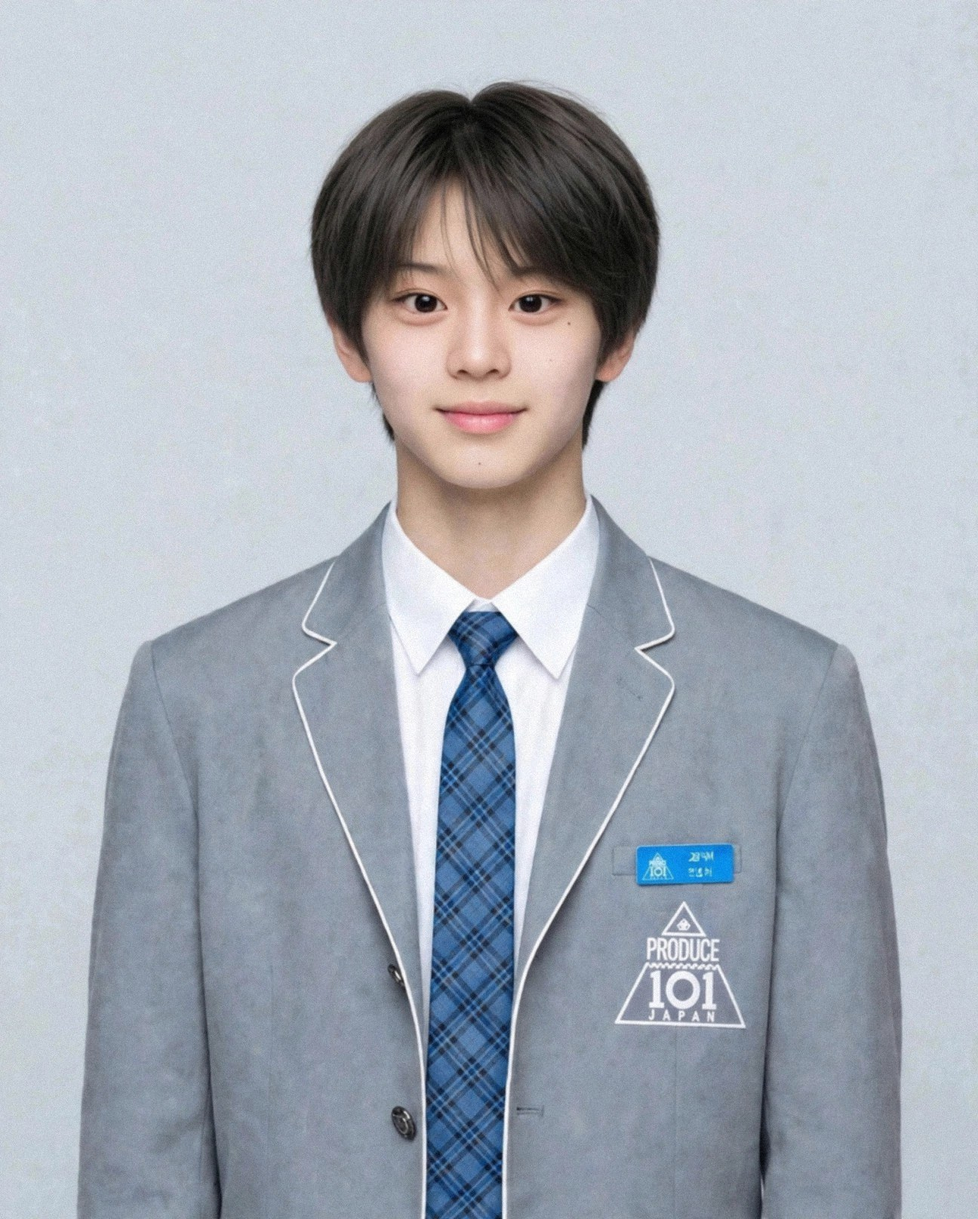
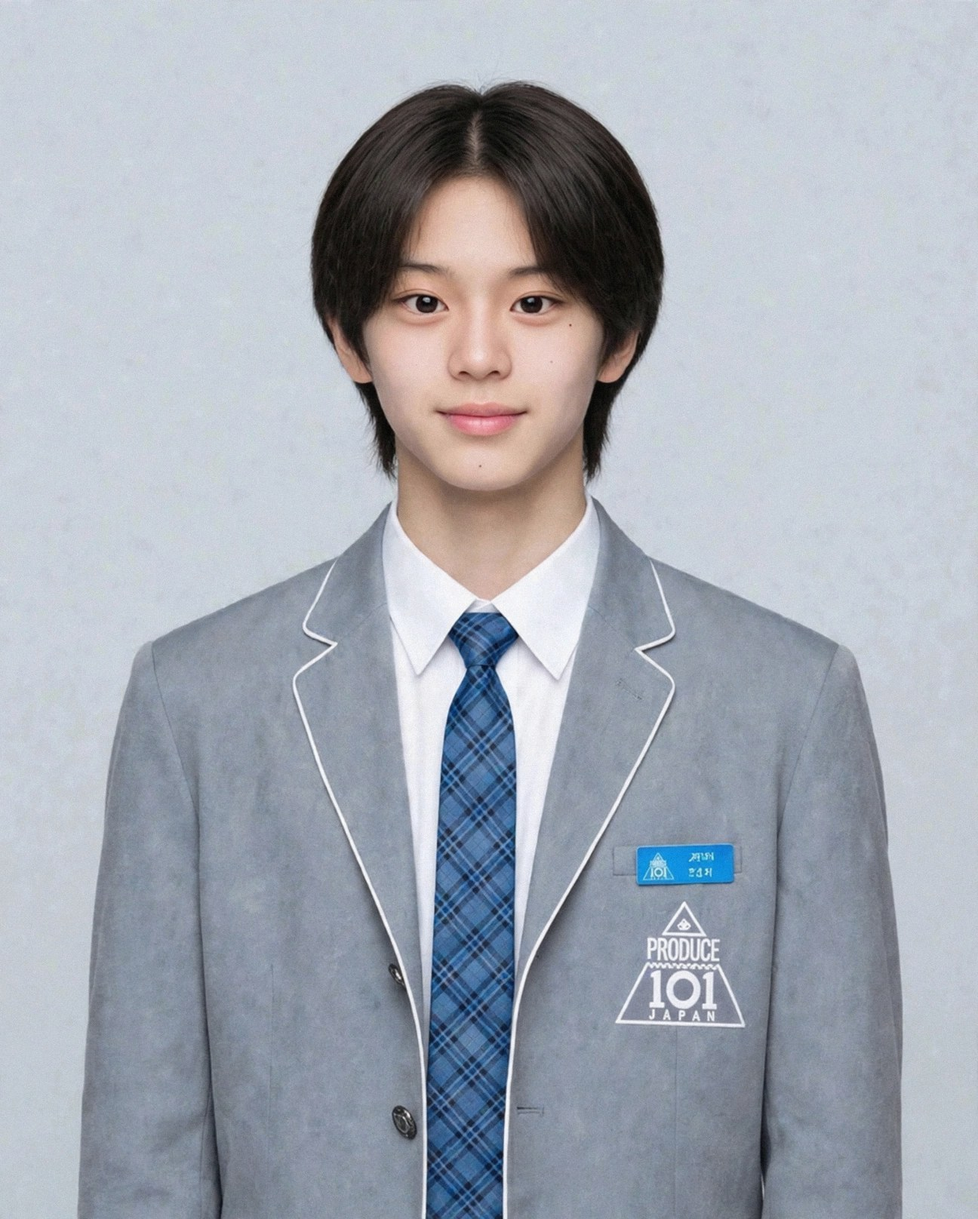
v180: 2019の顔の年齢感を17歳に調整（プロフィール／寄り／自撮り／やんちゃの4点を作り直し）

diff --git a/index.html b/index.html
@@ -835,7 +835,7 @@ body{font-family:-apple-system,"Hiragino Kaku Gothic ProN","Noto Sans JP",sans-s
 <script>
 "use strict";
 const $=s=>document.querySelector(s);
-const VER="v179";
+const VER="v180";
 /* ============ state ============ */
 const DEF={idx:0,started:false,consented:false,soundOn:true,
  g:{iwakan:0,bare:0,todoita:0,uta:8,dance:4,ishi:50},
@@ -2646,7 +2646,7 @@ function renderSettings(tab){setTab=tab;document.querySelectorAll("#set-tabs but
  <div class="srow"><span>到達した結末</span><span class="sv">${S.trueEnd?"TRUE END ― 現在":S.normalEnd?"END ― 通常現在":S.loopBad?"BAD END ― ループ継続":S.bareEnd?"END ― 秘密バレIF":S.ridatsuEnd?"END ― 離脱した現在":"（まだ到達していません）"}</span></div>
  <div class="srow"><span>サウンド</span><span class="sv"><button id="snd-btn" style="background:${S.soundOn!==false?"#17172a":"#c6c6d4"};color:#fff;border:none;border-radius:999px;padding:6px 18px;font-size:12.5px;font-weight:700;cursor:pointer">${S.soundOn!==false?"ON":"OFF"}</button></span></div>
  <div class="srow"><span>フィクション</span><span class="sv">実在の記録をもとにした創作です</span></div>
- <div class="srow"><span>アップデート</span><span class="sv">v16 サウンドと画面遷移／v17 差分再演REPLAYとDiff時代別表示／v18 現在の小さな変化／v19 トークのスレッドとフリーチャット／v20・v23・v32 場面カットの追加／v21 日常回（食堂の夜・売店の夜）／v22 番組アプリの情報デザイン／v24 ホーム背景の時代連動と進行％／v25 タイトルのスライドショー／v26 彼の画面のカウンタ／v27 ロック画面の通知スタック／v28 写真の全画面ビューア／v30 章ごとの記録カード／v31 フィナーレ直前の彼の視点／v33 フリーチャットの時代別応答／v34 投票レシート／v35 ミッション進捗バー／v36 ゲージの危険域表示／v37 選んだ記録の判別表示／v38 台帳の時代別表示／v39 Keepsakeの時代バッジ／v41 章名つきロック画面／v42 トークの新着バッジ／v43 名簿の詳細パネル／v44 写真のスワイプ送り／v45 BGMの時代連動／v46 順位・差分の専用SE／v47 長押し早送り／v48 章セレクト／v50 REPLAY再演の追加／v52 日常回（コンビニの夜）／v53 タイトル通知のセーブ連動／v54 アプリアイコンのバッジ／v55 主人公の正式名「三浦渚央」と2019プロフィールの新フェイス差し替え／v56〜v59 プロフィール・場面カットの新フェイス再生成／v60 カード画角の統一（頭部55〜60%）と三浦渚央の順位表示／v61 名簿メモへの順位追記と凡例／v62 周B順位発表の彼の視点／v63 ストーリーバナーのサムネ時代連動／v64 タイトルに正式名／v65 ロック画面に順位通知／v66 情報タブに順位の記録／v67 順位行の文字色修正／v68 現在の小さな変化（順位の残響）／v69 写真メモに順位結果／v70 節目 ― 全アプリ走査／v71 フリーチャットの話題追加／v72 トークのチップ追加／v73・v74 順位タブの空状態整理／v75 順位変動のDiff記録／v76 節目 ― 全アプリ走査／v77 2021周A・初回ステージ後に彼の画面を追加／v78 2023周A・ファンカム章に彼の視点（インライン）を追加／v79 2019周A・順位発表式に彼の視点（インライン）を追加／v80 2023周A・VERY NICE本番前に彼の視点（インライン）を追加／v81 2023周A・寮の夜に彼の視点（インライン）を追加／v82 2019周A・届くはずのなかった手紙に彼の視点（インライン）を追加／v83 フリーチャットの話題拡充（2019専用プール＋新キーワード6種＋チップ追加）／v84 周Aの彼の記憶の線引きで全監査（2021・2023到着場面と彼の画面3件を連続した同僚の前提に書き換え）／v85 2019周A・練習室の夜に彼の視点（インライン）を追加／v86 2021周A・寮の一夜に彼の視点（インライン）を追加／v87 2023周A・コンビニの夜に彼の視点（インライン）を追加／v88 台帳・Keepsake・Diffの時代分類を修正（NXD期グループ新設、誤分類6件を是正）／v89 場面カット追加（2023順位発表の夜・face2基準で新規生成）／v90 場面カット追加（2021ファイナルの夜・face2基準で新規生成）／v91 節目 ― 全アプリ走査／v92 日常回「自販機の夜」（2023・周B）を追加／v93 2019周A・レベル分け評価に彼の視点（インライン）を追加／v94 写真アプリに時代別グルーピング（見出し＋枚数）を追加／v95 場面カット追加（NXD期・夜の練習室、face2基準で新規生成）／v96 フリーチャットの時代別プールを拡充（各時代＋2件）／v97 2019周B・発覚に彼の視点（インライン）を追加／v98 2021周B・再会に彼の視点（インライン）を追加／v99 2023周B・発覚に彼の視点（インライン）を追加／v100 節目 ― 全編通しプレイ検証／v101 効果音の配線追加（台帳・Keepsake・彼の視点）／v102 トークに彼のメッセージを3件追加／v103 タイトルのスライドショー拡充（8枚）とホーム背景のNXD期差し替え／v104 2023周B・再会に彼の視点（インライン）を追加／v105 2021周B・売店の夜に彼の視点（インライン）を追加／v106 NXD期・周B「移籍の決断」に彼の視点（インライン）を追加／v107 2023周B・共同作戦に彼の視点（インライン）を追加／v108 2019周B・共同作戦（ツカメ対策）に彼の視点（インライン）を追加／v109 2021周B・共同作戦に彼の視点（インライン）を追加／v110 NXD期・周B「延期の季節 ― 二度目」に彼の視点（インライン）を追加／v111 フリーチャット拡充（キーワード応答3種・チップ2件・現在編プール拡充）／v112 節目 ― 全アプリ走査／v113 2023周B・自販機の夜に彼の視点（インライン）を追加／v114 2019周A・食堂の夜に彼の視点（インライン）を追加／v115 2021周B・順位発表の締めに彼の視点（インライン）を追加／v116 設計ドキュメントの実装状況を更新／v117 場面カット追加（2019食堂の夜・face2基準で新規生成）／v118 場面カット追加（2021売店の夜・face2基準で新規生成）／v119 場面カット追加（2023コンビニの夜・face2基準で新規生成）／v120 背景の差し替え（現在編の冒頭とソロデビューの場面）／v121 節目 ― 全編通しプレイ検証（v101〜v120の追加後）／v122 画像出典メモ（IMAGE_SOURCES.md）に新規カット6点とface2基準を追記／v123 READMEの状態表記を現行（本編完結・公開中）に更新／v124 視覚QAで発見した順位タブの防御的修正（順位値の欠損時に最低ラインへフォールバック）／v125 節目 ― 全画面の視覚QA（撮影確認）／v126 節目 ― 別エンディング到達検証（秘密バレIF・離脱した現在）／v127 節目 ― 全5エンディング到達検証の完了（通常現在・ループ継続BADを追加確認）／v128 設計ドキュメントの実装状況に最終検証結果を追記／v129 READMEの現行版表記を更新／v130 生成メタファイルを .gitignore に追加して作業ツリーを整理／v131 「届くはずのなかった手紙」に背景を設定（食堂カットの引き継ぎを解消）／v132 フリーチャットの応答拡充（キーワード応答8種・時代別プール各+2件・チップ2件を追加）／v133 仕上げのUI調整（ホームのアプリアイコンのラベルの可読性を向上、ストーリー画面のゲージチップを均等な3+3配置に整形）／v134 フリーチャットに語学の話題を追加（中国語・韓国語・英語へのキーワード応答）／v135 節目 ― 朝まで改修の最終版（全アプリ走査・ドキュメント同期）／v136 トークを実物化（1相手=1スレッドに集約・未読バッジ・プレビュー・実物時刻・日付チップ・自分の送信への既読表示。仕組みは『現役アイドル、Tinderやってた件』のLINEと『キープ管理中！』の未読管理から移植）／v137 2021・2023の渚央プロフィールを制服版に統一（創造営の紺制服／ボイプラの淡グレー制服。名簿・順位・パネル・背景・写真の参照を全て profile-uniform 系へ）／v138 ロック画面とホームの実物化（主通知の送信者を実アプリ名にし未読トークがあれば最新メッセージを表示、日付を月日＋曜日の実物形式に、ホームと写真の操作説明文を撤去）／v139 トークをTinder版（v462）LINEと実測比較して一致（バブルの角・色・文字サイズ、入力欄、送信ボタン、日付チップ、一覧の行構成と検索ボックス、スレッドヘッダーのアバター）／v140 トークにLINEアプリのシェルを移植（下部タブバー＋タブ画面を新設。タブの数・並び・切替挙動はTinder版LINEと同一で、ホームタブは三浦渚央のプロフィール＋届いた応援カード＋友だちリストのパネル、ニュースは番組アプリ、その他は設定・記録へ接続）／v141 ロック画面の進化（時計を88px・太字に、通知カードをblur20px＋saturateの実物仕様にして幅を統一、スタック通知のアイコンをアプリ別SVGに分けて出現をスタッガード化。ステータスバーと電池％を追加し、壁紙を時代連動＋緩やかなズームに。下部のライトは白フラッシュが光る実働ボタンに、カメラは写真アプリへ直行。通知はタップで該当アプリ・記録へ遷移）／v142 ホーム画面の進化（Tinder版ホームのページ構成を移植：飾りだったドットを実働の2ページ化にし、横スワイプとドットタップで切替。2ページ目に物語暦のカレンダーウィジェットと時代のカットが切り替わる写真ウィジェットを新設し、記録サマリと次のミッションを移設。ドットの横に検索ピルを追加し、アプリ・記録を検索して直接開けるシートを実装。下部にガラスのドック（トーク／写真／番組アプリ／設定・記録、バッジ連動）を追加。ステータスバーに電池％、壁紙に緩やかなズーム）／v143 ロック画面の通知スタックの隙間を修正（ベースCSSの上マージン34pxがスタック内の通知にも効いて間隔が42pxに広がっていたのを、実物どおり8pxに統一。あわせて通知領域を時計の下〜下部ボタンの上のスクロール領域にして、通知が多くてもライト／カメラのボタンやヒント文字に重ならないようにした）／v144 写真アプリの進化（『現役アイドル、Tinderやってた件』の写真アプリから移植：2列カード型だったグリッドを3列・隙間2px・正方形の実物仕様にし、時代見出し＋枚数のヘッダーと上部のピル型タブ（すべて／時代別で絞り込み）を新設。ビューアはお気に入り（セーブに保持、グリッドにもハート表示）とスライドショーを追加し、送りを循環式から端で止まるクランプ式に変更、キャプション＋差分メモ＋時代＋通し番号のメタ表示とキー操作に対応。複数選択モード（最大4枚）からコラージュを作成でき、ロック画面の壁紙にも設定できる（時代連動に戻す導線つき）。中身の時代別カットと枚数は従来どおり）／v145 アプリアイコンをTinder版の様式に統一（アイコンを全面SVG化し、背景レイヤーまで1枚に収める方式へ。トーク＝LINE・写真・設定・記録はTinder版と同型のアイコンに、番組アプリは金の縦グラデーション＋王冠のグリフで同水準に。アイコンの角丸と影もTinder版の実測値に一致。あわせてラベル用ピルのCSSがドックのアイコンにも漏れて円形になっていた不具合を修正し、ドックでもグリッドと同じ角丸アイコンが並ぶようにした）／v147 渚央の顔を最終基準（本人の写真由来の顔＋クールな髪型）へ差し替え開始。2023編のプロフィール（基準画像そのものへ差し替え、カード用クロップも新基準で作成）と場面カット全8点を基準顔で再生成／v148 2021編を新基準へ差し替え（プロフィールは19歳相当＋創造営制服＋屋外背景で新規生成、カード用クロップも作成。場面カット5点＝daily／practice／ranking-close／study／shop-nightを19歳相当の基準顔で再生成。stageは次版で差し替え予定）／v149 2019編を新基準へ全面差し替え（プロフィールは17歳相当で再生成し直し、カード用クロップも新規作成。場面カット7点＝stage／stage2／dorm／practice／ranking-close／selfie／cafeteriaを17歳相当の基準顔で再生成）。リンクプレビュー用のog:image（新stageから作成）も新設／v150 旧素材（候補ファイル群・旧プロフィール）を保管庫へ退避し、顔素材を新基準のラインに統一（表示内容の変更なし）／v151 2021のステージカットを新顔基準（19歳版）で差し替え、顔の全面差し替えが完了／v153 2021プロフィールに創造営の学員証を追加（メンバーが付けている装着物に合わせた。2019は名札が既存仕様どおり、2023は装着物なしが実物どおり）。<br>v152 全時代のプロフィールをポーズ付きに作り直し（2019＝ガッツポーズの全身ショット、2021＝頬ハートの膝上ショット、2023＝腕組みのウエスト上ショット。顔は新基準のラインを維持し、寄りクロップも新しい全身から作り直し）<br>v154 全身カットの脚の比率を修正（2019・2021の練習室カットを脚長・細身のモデル体型プロポーションで再生成。構図・ポーズ・顔は維持）<br>v155 鼻の大きさを基準顔に修正（2019ステージカットと順位発表カットの鼻を、基準の小さく細い鼻筋＋小さく上向きの鼻先に寄せて再生成。構図・衣装・表情は維持）<br>v156 「彼の画面」を現代のモバイルADV風に作り替え（時代の場面カットをぼかしたシネマティック背景＋暗グラデーション、大翔のアバター＋名前チップのヘッダー、進行は紫ピルをやめてグラデーションのプログレスバー＋控えめな件数表示に。心の声は字幕風の中央テキスト＋ヘアライン区切り、セリフはガラス質の吹き出しカードにし、金枠と紫イタリックを廃止。終わりは白ピルの「戻る」ボタン。本文・分岐・ゲージの仕様は不変。物語内の彼の視点カードも同じ質感に統一）<br>v157 番組アプリのリアル化（お知らせタブを新設し、時代と進行に連動する事務局・投票・コンテンツ通知を掲載。結果のお知らせからは順位タブへ遷移。名簿の詳細をプロフィールページ化：ヒーロー写真＋名前オーバーレイ＋区分・番組の情報行＋順位の記録テーブル（彼の初回12位など史実と周ごとの結果を、発表済みの分だけ表示）＋渚央のスキルバー。順位タブの大翔・渚央の周B行に前回比の変動チップ▲を追加）<br>v158 設定・記録のリアル化（情報タブをiOS設定風に：作品情報／いまの記録／サウンド／履歴のグループカード化、サウンドはピルボタンからiOSトグルスイッチに、長いアップデート履歴は開閉式に収納。表示テキストは全て従来どおり。ゲージ・台帳・Keepsake・Diff・章の各タブはカード型の行＋チップ見出しで履歴・メモ系UIの質感に統一。ゲージ説明や順位計算などの仕様・文言は不変）<br>v162 周Bの記憶ルールを新仕様に統一（彼の記憶は周B開始時＝2019年の再会で大周回Aの全部が一度に戻る。旧仕様「時代ごとに、その時代ぶんが順に戻る」は廃止。2019編の発覚を全部戻った前提の大きな一場面に書き直し、2021・2023編の再会は「その時代の記憶が戻る・既視感から確信」ではなく確認と共同作戦の続きに書き換え。彼の視点・幕間・ロック画面の通知文も同じ前提に統一。ゲージ・分岐・順位計算などの数値仕様は不変）<br>v163 2019の2点（ステージ／順位発表の寄り）の鼻を再修正（v155で小さく寄りすぎていたものを、基準顔の比率どおりの自然な大きさに戻して再生成。顔・構図・衣装は維持。og画像も新しいステージカットから作り直し）<br>v164 2019のプロフィールを実物どおりの素立ちバストショットに戻した（PRODUCE 101 JAPANの公式プロフィールはポーズなしの素立ちが実物のため、v152のガッツポーズ全身は2019に限って撤回。グレーブレザー＋青チェックタイ＋名札は維持し、寄りクロップも新しいバストショットから作り直し。他時代のプロフィールは各時代の公式写真に合わせる原則どおり据え置き）<br>v165 周Bの順位に下限（フロア）を保証（大翔の周B順位は、プレイ内容によらず必ず周Aより上になるよう最低上昇幅を保証：2019は35位以下にならない／2021は14位以下にならない／2023は20位以下にならない。デビュー圏外の上限＝従来どおり。渚央の周B順位36／16／19位が周A 38／18／22位より上であることも全時代で再確認。計算式そのものと、届いた数の扱いなどの仕様文言は不変）<br>v166 楽曲が分かる場面カットの衣装を当時の実物に合わせて作り直し（2021ステージ＝創造営2021・初評級ステージの曲目 MAMAMOO『HIP -Japanese ver.-』でRBWチームが着た赤のスパンコール・オーバーサイズトップス＋黒カーゴに変更。従来の龍刺繍ジャケットは当時の衣装ではないため差し替え。2023ファンカム2点目（エンディング妖精）と新規ステージカット＝BOYS PLANET『VERY NICE』Gグループの実物衣装（白ベレー帽＋オレンジ×白の太ボーダーのラガーシャツ）に変更し、新規カットは周A・周B両方のVERY NICE本番場面の背景に配線。根拠は本人の公式直カムサムネイル等の実物資料）／v167 周Bは二人ともファイナルまで残る仕様に変更（本人の決定）：大翔の周B順位帯をファイナリスト範囲へ（2019：12〜20位／2023：実効14〜18位。2021は従来の計算で12〜14位＝範囲内のため据え置き）、渚央の周B順位を2019：17位・2023：14位に変更（2021：16位は据え置き）。順位行・名簿メモ・彼の視点・現在インタールードのテロップ・2019／2023編Bの順位発表の文章をファイナル到達で整合。デビューできない結末（Canon Lock 第1層）は不変／v168 周B 2019編にコンセプト評価『やんちゃBOYやんちゃGIRL』の場面を追加（本人の確定指定）：史実でも大翔はマッチング投票で同曲のセンター・サブボーカルに選ばれていたが第2回発表36位で脱落し立てなかったため、周Bでは二人とも同じチームで実際に立つ形にした（周Aの渚央は第2回発表で脱落するため登場しない）。衣装は実物（紺の学ラン風ブレザー＋白パイピング＋黄ストライプシャツ＋手紙の小道具）に合わせた新規カットを追加／v169 衣装ルールを訂正（本人の指示）：大翔とまったく同じ衣装はNGで、系統（色味・素材感・コンセプト）だけ合わせて別デザインにする。創造営の赤スパンコールは系統（赤）を保ちつつギラギラを抑えた洗練デザイン（マットな深紅のシャツジャケット＋黒ワイドパンツ）に作り直し。VERY NICEの3点（ファンカム／ステージ／寄り）も大翔と同一だった白ベレー＋太ボーダーラガーをやめ、オレンジ×白の系統を保った別デザイン（細ボーダーのニットポロ＋白ワイドパンツ）に統一して作り直し。2原則は docs/ASSETS_NAO.md の衣装ルールに記録／v170 プロフィール画像の質感を各時代の公式写真に合わせた（本人の指摘「画質がクリアすぎる」）：プロフィール系8点（2019フル／寄り、2021制服／寄り／寄り（人気表示用）、2023制服／寄り／寄り（人気表示用））に、軽い縮小→拡大によるシャープさ低減＋微粒子グレイン＋コントラスト抑制の後処理を時代別に適用。2019を最強に処理。顔そのもの（基準顔・比率）は不変。生成基準マスターの standard-final は対象外／v171 番組アプリの表示修正（タブの折り返しを解消、名簿カードのメタ文の折り返しと高さを統一、名簿詳細を背面が漏れないプロフィールページ表示に変更）／v172 女の子らしさの監査と修正（本人の指摘）：表示中の渚央カット全点を「男性練習生として読めるか」で監査し、逸脱した4点（2023 VERY NICEの個人ファンカム／ステージ／寄り、2019 やんちゃBOYやんちゃGIRL）を作り直した。基準顔は維持し、髪を短めですっきりした男性ヘアに、表情と雰囲気を少年の爽やかさ側に寄せた。衣装の系統と構図は維持／v173 プロフィールの正面化（本人の指摘）：名簿・プロフィール用途の渚央を、他メンバーと同じほぼ正面・顔まっすぐの公式プロフィール画角に統一。2023は基準のstandard-final（正面）に戻して寄り2種も作り直し、2021は斜め向き＋頬ハートポーズをやめて正面の公式プロフィールに再生成（創造営の制服・屋外背景・学員証は維持）。2019は正面で問題なし／v174 ストーリー画面の表示修正（画像のない場面で真っ黒だったステージ領域に、星屑と星マークの意匠背景を持たせた。「▼」のテキスト記号をやめ、進むヒントと順位の変動チップ▲をSVGに統一）／v175 順位タブの空状態を専用デザインに（トロフィーのアイコン＋見出しで、発表前の状態が伝わる形に。文言は従来どおり）。章リストは時代チップを独立した行にして、章タイトルがチップの横で折り返さないレイアウトに／v176 写真ビューアの前後矢印を濃いガラス＋SVGシェブロンにして明るい写真の上でも見えるように。タイトル画面のスクリム（背景写真への暗幕）を中段から強め、ロゴとリード文の可読性を上げた／v177 v175で順位タブの空状態の差し替えが一部入っていなかった不具合を修正（専用デザインが正しく表示されるようにした）／v178 物語の段取り修正（本人の指摘）：冒頭、2019年に目覚めた彼女が即座に適応していた唐突さを直した。実家の部屋・古いスマホとカレンダーの日付・長かった髪と制服・母親の声・令和のニュースで現実を確認し、夢だと思い込もうとして頬をつねり、それでも三日経って証拠が積み上がってからようやく認める過程に書き換え。応募の決断も数日後になった。選択肢・ゲージ・仕様は変更なし／v179 物語の段取り修正（本人の指摘）：周Bで大翔が周回を即全肯定していた唐突さを直した。記憶が戻った直後の彼の視点に「二つの2019年への戸惑い・夢だと思い込む疑い・確かめるまでは決めつけない」過程を追加。再会で名前を呼んだのは確信ではなく「試し」だったと段取りを付け、発覚の夜は、数日の逡巡の末に、放送にも記録にも残っていない二人だけの記憶（練習室の夜、水筒と「俺も、そこ詰まるんです」）が符合して初めて確信に至る流れに書き換えた。選択肢・ゲージ・分岐・順位は変更なし</span></div>
+ <div class="srow"><span>アップデート</span><span class="sv">v16 サウンドと画面遷移／v17 差分再演REPLAYとDiff時代別表示／v18 現在の小さな変化／v19 トークのスレッドとフリーチャット／v20・v23・v32 場面カットの追加／v21 日常回（食堂の夜・売店の夜）／v22 番組アプリの情報デザイン／v24 ホーム背景の時代連動と進行％／v25 タイトルのスライドショー／v26 彼の画面のカウンタ／v27 ロック画面の通知スタック／v28 写真の全画面ビューア／v30 章ごとの記録カード／v31 フィナーレ直前の彼の視点／v33 フリーチャットの時代別応答／v34 投票レシート／v35 ミッション進捗バー／v36 ゲージの危険域表示／v37 選んだ記録の判別表示／v38 台帳の時代別表示／v39 Keepsakeの時代バッジ／v41 章名つきロック画面／v42 トークの新着バッジ／v43 名簿の詳細パネル／v44 写真のスワイプ送り／v45 BGMの時代連動／v46 順位・差分の専用SE／v47 長押し早送り／v48 章セレクト／v50 REPLAY再演の追加／v52 日常回（コンビニの夜）／v53 タイトル通知のセーブ連動／v54 アプリアイコンのバッジ／v55 主人公の正式名「三浦渚央」と2019プロフィールの新フェイス差し替え／v56〜v59 プロフィール・場面カットの新フェイス再生成／v60 カード画角の統一（頭部55〜60%）と三浦渚央の順位表示／v61 名簿メモへの順位追記と凡例／v62 周B順位発表の彼の視点／v63 ストーリーバナーのサムネ時代連動／v64 タイトルに正式名／v65 ロック画面に順位通知／v66 情報タブに順位の記録／v67 順位行の文字色修正／v68 現在の小さな変化（順位の残響）／v69 写真メモに順位結果／v70 節目 ― 全アプリ走査／v71 フリーチャットの話題追加／v72 トークのチップ追加／v73・v74 順位タブの空状態整理／v75 順位変動のDiff記録／v76 節目 ― 全アプリ走査／v77 2021周A・初回ステージ後に彼の画面を追加／v78 2023周A・ファンカム章に彼の視点（インライン）を追加／v79 2019周A・順位発表式に彼の視点（インライン）を追加／v80 2023周A・VERY NICE本番前に彼の視点（インライン）を追加／v81 2023周A・寮の夜に彼の視点（インライン）を追加／v82 2019周A・届くはずのなかった手紙に彼の視点（インライン）を追加／v83 フリーチャットの話題拡充（2019専用プール＋新キーワード6種＋チップ追加）／v84 周Aの彼の記憶の線引きで全監査（2021・2023到着場面と彼の画面3件を連続した同僚の前提に書き換え）／v85 2019周A・練習室の夜に彼の視点（インライン）を追加／v86 2021周A・寮の一夜に彼の視点（インライン）を追加／v87 2023周A・コンビニの夜に彼の視点（インライン）を追加／v88 台帳・Keepsake・Diffの時代分類を修正（NXD期グループ新設、誤分類6件を是正）／v89 場面カット追加（2023順位発表の夜・face2基準で新規生成）／v90 場面カット追加（2021ファイナルの夜・face2基準で新規生成）／v91 節目 ― 全アプリ走査／v92 日常回「自販機の夜」（2023・周B）を追加／v93 2019周A・レベル分け評価に彼の視点（インライン）を追加／v94 写真アプリに時代別グルーピング（見出し＋枚数）を追加／v95 場面カット追加（NXD期・夜の練習室、face2基準で新規生成）／v96 フリーチャットの時代別プールを拡充（各時代＋2件）／v97 2019周B・発覚に彼の視点（インライン）を追加／v98 2021周B・再会に彼の視点（インライン）を追加／v99 2023周B・発覚に彼の視点（インライン）を追加／v100 節目 ― 全編通しプレイ検証／v101 効果音の配線追加（台帳・Keepsake・彼の視点）／v102 トークに彼のメッセージを3件追加／v103 タイトルのスライドショー拡充（8枚）とホーム背景のNXD期差し替え／v104 2023周B・再会に彼の視点（インライン）を追加／v105 2021周B・売店の夜に彼の視点（インライン）を追加／v106 NXD期・周B「移籍の決断」に彼の視点（インライン）を追加／v107 2023周B・共同作戦に彼の視点（インライン）を追加／v108 2019周B・共同作戦（ツカメ対策）に彼の視点（インライン）を追加／v109 2021周B・共同作戦に彼の視点（インライン）を追加／v110 NXD期・周B「延期の季節 ― 二度目」に彼の視点（インライン）を追加／v111 フリーチャット拡充（キーワード応答3種・チップ2件・現在編プール拡充）／v112 節目 ― 全アプリ走査／v113 2023周B・自販機の夜に彼の視点（インライン）を追加／v114 2019周A・食堂の夜に彼の視点（インライン）を追加／v115 2021周B・順位発表の締めに彼の視点（インライン）を追加／v116 設計ドキュメントの実装状況を更新／v117 場面カット追加（2019食堂の夜・face2基準で新規生成）／v118 場面カット追加（2021売店の夜・face2基準で新規生成）／v119 場面カット追加（2023コンビニの夜・face2基準で新規生成）／v120 背景の差し替え（現在編の冒頭とソロデビューの場面）／v121 節目 ― 全編通しプレイ検証（v101〜v120の追加後）／v122 画像出典メモ（IMAGE_SOURCES.md）に新規カット6点とface2基準を追記／v123 READMEの状態表記を現行（本編完結・公開中）に更新／v124 視覚QAで発見した順位タブの防御的修正（順位値の欠損時に最低ラインへフォールバック）／v125 節目 ― 全画面の視覚QA（撮影確認）／v126 節目 ― 別エンディング到達検証（秘密バレIF・離脱した現在）／v127 節目 ― 全5エンディング到達検証の完了（通常現在・ループ継続BADを追加確認）／v128 設計ドキュメントの実装状況に最終検証結果を追記／v129 READMEの現行版表記を更新／v130 生成メタファイルを .gitignore に追加して作業ツリーを整理／v131 「届くはずのなかった手紙」に背景を設定（食堂カットの引き継ぎを解消）／v132 フリーチャットの応答拡充（キーワード応答8種・時代別プール各+2件・チップ2件を追加）／v133 仕上げのUI調整（ホームのアプリアイコンのラベルの可読性を向上、ストーリー画面のゲージチップを均等な3+3配置に整形）／v134 フリーチャットに語学の話題を追加（中国語・韓国語・英語へのキーワード応答）／v135 節目 ― 朝まで改修の最終版（全アプリ走査・ドキュメント同期）／v136 トークを実物化（1相手=1スレッドに集約・未読バッジ・プレビュー・実物時刻・日付チップ・自分の送信への既読表示。仕組みは『現役アイドル、Tinderやってた件』のLINEと『キープ管理中！』の未読管理から移植）／v137 2021・2023の渚央プロフィールを制服版に統一（創造営の紺制服／ボイプラの淡グレー制服。名簿・順位・パネル・背景・写真の参照を全て profile-uniform 系へ）／v138 ロック画面とホームの実物化（主通知の送信者を実アプリ名にし未読トークがあれば最新メッセージを表示、日付を月日＋曜日の実物形式に、ホームと写真の操作説明文を撤去）／v139 トークをTinder版（v462）LINEと実測比較して一致（バブルの角・色・文字サイズ、入力欄、送信ボタン、日付チップ、一覧の行構成と検索ボックス、スレッドヘッダーのアバター）／v140 トークにLINEアプリのシェルを移植（下部タブバー＋タブ画面を新設。タブの数・並び・切替挙動はTinder版LINEと同一で、ホームタブは三浦渚央のプロフィール＋届いた応援カード＋友だちリストのパネル、ニュースは番組アプリ、その他は設定・記録へ接続）／v141 ロック画面の進化（時計を88px・太字に、通知カードをblur20px＋saturateの実物仕様にして幅を統一、スタック通知のアイコンをアプリ別SVGに分けて出現をスタッガード化。ステータスバーと電池％を追加し、壁紙を時代連動＋緩やかなズームに。下部のライトは白フラッシュが光る実働ボタンに、カメラは写真アプリへ直行。通知はタップで該当アプリ・記録へ遷移）／v142 ホーム画面の進化（Tinder版ホームのページ構成を移植：飾りだったドットを実働の2ページ化にし、横スワイプとドットタップで切替。2ページ目に物語暦のカレンダーウィジェットと時代のカットが切り替わる写真ウィジェットを新設し、記録サマリと次のミッションを移設。ドットの横に検索ピルを追加し、アプリ・記録を検索して直接開けるシートを実装。下部にガラスのドック（トーク／写真／番組アプリ／設定・記録、バッジ連動）を追加。ステータスバーに電池％、壁紙に緩やかなズーム）／v143 ロック画面の通知スタックの隙間を修正（ベースCSSの上マージン34pxがスタック内の通知にも効いて間隔が42pxに広がっていたのを、実物どおり8pxに統一。あわせて通知領域を時計の下〜下部ボタンの上のスクロール領域にして、通知が多くてもライト／カメラのボタンやヒント文字に重ならないようにした）／v144 写真アプリの進化（『現役アイドル、Tinderやってた件』の写真アプリから移植：2列カード型だったグリッドを3列・隙間2px・正方形の実物仕様にし、時代見出し＋枚数のヘッダーと上部のピル型タブ（すべて／時代別で絞り込み）を新設。ビューアはお気に入り（セーブに保持、グリッドにもハート表示）とスライドショーを追加し、送りを循環式から端で止まるクランプ式に変更、キャプション＋差分メモ＋時代＋通し番号のメタ表示とキー操作に対応。複数選択モード（最大4枚）からコラージュを作成でき、ロック画面の壁紙にも設定できる（時代連動に戻す導線つき）。中身の時代別カットと枚数は従来どおり）／v145 アプリアイコンをTinder版の様式に統一（アイコンを全面SVG化し、背景レイヤーまで1枚に収める方式へ。トーク＝LINE・写真・設定・記録はTinder版と同型のアイコンに、番組アプリは金の縦グラデーション＋王冠のグリフで同水準に。アイコンの角丸と影もTinder版の実測値に一致。あわせてラベル用ピルのCSSがドックのアイコンにも漏れて円形になっていた不具合を修正し、ドックでもグリッドと同じ角丸アイコンが並ぶようにした）／v147 渚央の顔を最終基準（本人の写真由来の顔＋クールな髪型）へ差し替え開始。2023編のプロフィール（基準画像そのものへ差し替え、カード用クロップも新基準で作成）と場面カット全8点を基準顔で再生成／v148 2021編を新基準へ差し替え（プロフィールは19歳相当＋創造営制服＋屋外背景で新規生成、カード用クロップも作成。場面カット5点＝daily／practice／ranking-close／study／shop-nightを19歳相当の基準顔で再生成。stageは次版で差し替え予定）／v149 2019編を新基準へ全面差し替え（プロフィールは17歳相当で再生成し直し、カード用クロップも新規作成。場面カット7点＝stage／stage2／dorm／practice／ranking-close／selfie／cafeteriaを17歳相当の基準顔で再生成）。リンクプレビュー用のog:image（新stageから作成）も新設／v150 旧素材（候補ファイル群・旧プロフィール）を保管庫へ退避し、顔素材を新基準のラインに統一（表示内容の変更なし）／v151 2021のステージカットを新顔基準（19歳版）で差し替え、顔の全面差し替えが完了／v153 2021プロフィールに創造営の学員証を追加（メンバーが付けている装着物に合わせた。2019は名札が既存仕様どおり、2023は装着物なしが実物どおり）。<br>v152 全時代のプロフィールをポーズ付きに作り直し（2019＝ガッツポーズの全身ショット、2021＝頬ハートの膝上ショット、2023＝腕組みのウエスト上ショット。顔は新基準のラインを維持し、寄りクロップも新しい全身から作り直し）<br>v154 全身カットの脚の比率を修正（2019・2021の練習室カットを脚長・細身のモデル体型プロポーションで再生成。構図・ポーズ・顔は維持）<br>v155 鼻の大きさを基準顔に修正（2019ステージカットと順位発表カットの鼻を、基準の小さく細い鼻筋＋小さく上向きの鼻先に寄せて再生成。構図・衣装・表情は維持）<br>v156 「彼の画面」を現代のモバイルADV風に作り替え（時代の場面カットをぼかしたシネマティック背景＋暗グラデーション、大翔のアバター＋名前チップのヘッダー、進行は紫ピルをやめてグラデーションのプログレスバー＋控えめな件数表示に。心の声は字幕風の中央テキスト＋ヘアライン区切り、セリフはガラス質の吹き出しカードにし、金枠と紫イタリックを廃止。終わりは白ピルの「戻る」ボタン。本文・分岐・ゲージの仕様は不変。物語内の彼の視点カードも同じ質感に統一）<br>v157 番組アプリのリアル化（お知らせタブを新設し、時代と進行に連動する事務局・投票・コンテンツ通知を掲載。結果のお知らせからは順位タブへ遷移。名簿の詳細をプロフィールページ化：ヒーロー写真＋名前オーバーレイ＋区分・番組の情報行＋順位の記録テーブル（彼の初回12位など史実と周ごとの結果を、発表済みの分だけ表示）＋渚央のスキルバー。順位タブの大翔・渚央の周B行に前回比の変動チップ▲を追加）<br>v158 設定・記録のリアル化（情報タブをiOS設定風に：作品情報／いまの記録／サウンド／履歴のグループカード化、サウンドはピルボタンからiOSトグルスイッチに、長いアップデート履歴は開閉式に収納。表示テキストは全て従来どおり。ゲージ・台帳・Keepsake・Diff・章の各タブはカード型の行＋チップ見出しで履歴・メモ系UIの質感に統一。ゲージ説明や順位計算などの仕様・文言は不変）<br>v162 周Bの記憶ルールを新仕様に統一（彼の記憶は周B開始時＝2019年の再会で大周回Aの全部が一度に戻る。旧仕様「時代ごとに、その時代ぶんが順に戻る」は廃止。2019編の発覚を全部戻った前提の大きな一場面に書き直し、2021・2023編の再会は「その時代の記憶が戻る・既視感から確信」ではなく確認と共同作戦の続きに書き換え。彼の視点・幕間・ロック画面の通知文も同じ前提に統一。ゲージ・分岐・順位計算などの数値仕様は不変）<br>v163 2019の2点（ステージ／順位発表の寄り）の鼻を再修正（v155で小さく寄りすぎていたものを、基準顔の比率どおりの自然な大きさに戻して再生成。顔・構図・衣装は維持。og画像も新しいステージカットから作り直し）<br>v164 2019のプロフィールを実物どおりの素立ちバストショットに戻した（PRODUCE 101 JAPANの公式プロフィールはポーズなしの素立ちが実物のため、v152のガッツポーズ全身は2019に限って撤回。グレーブレザー＋青チェックタイ＋名札は維持し、寄りクロップも新しいバストショットから作り直し。他時代のプロフィールは各時代の公式写真に合わせる原則どおり据え置き）<br>v165 周Bの順位に下限（フロア）を保証（大翔の周B順位は、プレイ内容によらず必ず周Aより上になるよう最低上昇幅を保証：2019は35位以下にならない／2021は14位以下にならない／2023は20位以下にならない。デビュー圏外の上限＝従来どおり。渚央の周B順位36／16／19位が周A 38／18／22位より上であることも全時代で再確認。計算式そのものと、届いた数の扱いなどの仕様文言は不変）<br>v166 楽曲が分かる場面カットの衣装を当時の実物に合わせて作り直し（2021ステージ＝創造営2021・初評級ステージの曲目 MAMAMOO『HIP -Japanese ver.-』でRBWチームが着た赤のスパンコール・オーバーサイズトップス＋黒カーゴに変更。従来の龍刺繍ジャケットは当時の衣装ではないため差し替え。2023ファンカム2点目（エンディング妖精）と新規ステージカット＝BOYS PLANET『VERY NICE』Gグループの実物衣装（白ベレー帽＋オレンジ×白の太ボーダーのラガーシャツ）に変更し、新規カットは周A・周B両方のVERY NICE本番場面の背景に配線。根拠は本人の公式直カムサムネイル等の実物資料）／v167 周Bは二人ともファイナルまで残る仕様に変更（本人の決定）：大翔の周B順位帯をファイナリスト範囲へ（2019：12〜20位／2023：実効14〜18位。2021は従来の計算で12〜14位＝範囲内のため据え置き）、渚央の周B順位を2019：17位・2023：14位に変更（2021：16位は据え置き）。順位行・名簿メモ・彼の視点・現在インタールードのテロップ・2019／2023編Bの順位発表の文章をファイナル到達で整合。デビューできない結末（Canon Lock 第1層）は不変／v168 周B 2019編にコンセプト評価『やんちゃBOYやんちゃGIRL』の場面を追加（本人の確定指定）：史実でも大翔はマッチング投票で同曲のセンター・サブボーカルに選ばれていたが第2回発表36位で脱落し立てなかったため、周Bでは二人とも同じチームで実際に立つ形にした（周Aの渚央は第2回発表で脱落するため登場しない）。衣装は実物（紺の学ラン風ブレザー＋白パイピング＋黄ストライプシャツ＋手紙の小道具）に合わせた新規カットを追加／v169 衣装ルールを訂正（本人の指示）：大翔とまったく同じ衣装はNGで、系統（色味・素材感・コンセプト）だけ合わせて別デザインにする。創造営の赤スパンコールは系統（赤）を保ちつつギラギラを抑えた洗練デザイン（マットな深紅のシャツジャケット＋黒ワイドパンツ）に作り直し。VERY NICEの3点（ファンカム／ステージ／寄り）も大翔と同一だった白ベレー＋太ボーダーラガーをやめ、オレンジ×白の系統を保った別デザイン（細ボーダーのニットポロ＋白ワイドパンツ）に統一して作り直し。2原則は docs/ASSETS_NAO.md の衣装ルールに記録／v170 プロフィール画像の質感を各時代の公式写真に合わせた（本人の指摘「画質がクリアすぎる」）：プロフィール系8点（2019フル／寄り、2021制服／寄り／寄り（人気表示用）、2023制服／寄り／寄り（人気表示用））に、軽い縮小→拡大によるシャープさ低減＋微粒子グレイン＋コントラスト抑制の後処理を時代別に適用。2019を最強に処理。顔そのもの（基準顔・比率）は不変。生成基準マスターの standard-final は対象外／v171 番組アプリの表示修正（タブの折り返しを解消、名簿カードのメタ文の折り返しと高さを統一、名簿詳細を背面が漏れないプロフィールページ表示に変更）／v172 女の子らしさの監査と修正（本人の指摘）：表示中の渚央カット全点を「男性練習生として読めるか」で監査し、逸脱した4点（2023 VERY NICEの個人ファンカム／ステージ／寄り、2019 やんちゃBOYやんちゃGIRL）を作り直した。基準顔は維持し、髪を短めですっきりした男性ヘアに、表情と雰囲気を少年の爽やかさ側に寄せた。衣装の系統と構図は維持／v173 プロフィールの正面化（本人の指摘）：名簿・プロフィール用途の渚央を、他メンバーと同じほぼ正面・顔まっすぐの公式プロフィール画角に統一。2023は基準のstandard-final（正面）に戻して寄り2種も作り直し、2021は斜め向き＋頬ハートポーズをやめて正面の公式プロフィールに再生成（創造営の制服・屋外背景・学員証は維持）。2019は正面で問題なし／v174 ストーリー画面の表示修正（画像のない場面で真っ黒だったステージ領域に、星屑と星マークの意匠背景を持たせた。「▼」のテキスト記号をやめ、進むヒントと順位の変動チップ▲をSVGに統一）／v175 順位タブの空状態を専用デザインに（トロフィーのアイコン＋見出しで、発表前の状態が伝わる形に。文言は従来どおり）。章リストは時代チップを独立した行にして、章タイトルがチップの横で折り返さないレイアウトに／v176 写真ビューアの前後矢印を濃いガラス＋SVGシェブロンにして明るい写真の上でも見えるように。タイトル画面のスクリム（背景写真への暗幕）を中段から強め、ロゴとリード文の可読性を上げた／v177 v175で順位タブの空状態の差し替えが一部入っていなかった不具合を修正（専用デザインが正しく表示されるようにした）／v178 物語の段取り修正（本人の指摘）：冒頭、2019年に目覚めた彼女が即座に適応していた唐突さを直した。実家の部屋・古いスマホとカレンダーの日付・長かった髪と制服・母親の声・令和のニュースで現実を確認し、夢だと思い込もうとして頬をつねり、それでも三日経って証拠が積み上がってからようやく認める過程に書き換え。応募の決断も数日後になった。選択肢・ゲージ・仕様は変更なし／v179 物語の段取り修正（本人の指摘）：周Bで大翔が周回を即全肯定していた唐突さを直した。記憶が戻った直後の彼の視点に「二つの2019年への戸惑い・夢だと思い込む疑い・確かめるまでは決めつけない」過程を追加。再会で名前を呼んだのは確信ではなく「試し」だったと段取りを付け、発覚の夜は、数日の逡巡の末に、放送にも記録にも残っていない二人だけの記憶（練習室の夜、水筒と「俺も、そこ詰まるんです」）が符合して初めて確信に至る流れに書き換えた。選択肢・ゲージ・分岐・順位は変更なし／v180 2019の顔の年齢感を修正（本人の指摘）：17歳にしては幼すぎた2019の渚央を、全10点監査のうえ逸脱した4点（プロフィール／寄り／自撮り／やんちゃ）を作り直した。基準顔のパーツ・比率・ほくろは維持し、頬の丸みを抑えて輪郭を少し大人びさせ、ちゃんと17歳（高校3年生）に見える顔立ちに。他の6点は年齢感に問題なし</span></div>
  <div class="pad"><p class="small">エンディングは5種（TRUE現在／通常現在／離脱した現在／秘密バレIF／ループ継続BAD）。結末は、彼の岐路での関わり・手がかり（Keepsakeと届いた数）・男装バレ度・最後の選択で分かれます。なお「デビューしてしまう現在」はIF候補として設計にのみ記録され、本編では採用していません（デビューメンバー構成は不変のため）。</p></div>
  <div class="pad"><button class="btn" id="reset-btn" style="background:#ff3b30">データを消して最初から</button></div>`;
  const rb=$("#reset-btn");if(rb)rb.onclick=()=>{if(confirm("セーブデータを消して最初から始めますか？")){localStorage.removeItem("tlSaveV2");location.reload();}};

diff --git a/docs/ASSETS_NAO.md b/docs/ASSETS_NAO.md
@@ -163,6 +163,13 @@
 - 2019：profile-face3b-full／close2 は正面の素立ちで問題なし（変更なし）
 - 旧カットは hidden_files/nao-genderfix-backup/ に保管
 
+## 2019の年齢感は「ちゃんと17歳」（2026-11-09 本人指摘・v180で修正）
+- 本人の指摘：2019（日プ）時代の顔が、17歳にしては幼すぎる
+- 監査：2019の全10点を確認。顔が大きく写るカットほどベビーフェイスに寄っていた。逸脱は4点：profile-face3b-full／profile-face3b-close2（頬の丸みで14〜15歳読み）、selfie（15〜16歳読み）、yancha（14〜15歳読み）。stage／stage2／dorm／practice／ranking-close／cafeteria は16〜17歳の範囲で問題なし
+- 修正方法：基準顔のパーツ・比率・目の下のほくろは維持し、頬の赤ちゃんのような丸みを抑え、輪郭と顎のラインを少しだけ大人びさせて「17歳（高校3年生）」の年齢感に再生成。20代にはしすぎない。profile-face3b-close2 は新しい full から頭部約58%で再クロップし、v170の質感後処理（2019強度）も full／close2 に再適用
+- 生成マスター（webp）は ~/workspace/imagine_media/ に media-generation-nao-2019-profile-age17-* / -selfie-age17-* / -yancha-age17-* として残存。旧カットは hidden_files/nao-agefix-backup/2019/ に保管
+- 今後の年齢監査では「若くしすぎ（ベビーフェイス化）」も逸脱として扱う（中顔面の長さだけでなく頬の丸み・輪郭の幼さを見る）
+
 ## プロフィールの質感（2026-11-09 本人指摘・v170で適用）
 - 生成画像は画質がクリアすぎるため、プロフィール系は各時代の実在公式写真の質感に寄せる：軽い縮小→拡大でAI特有のシャープさを落とし、微粒子グレインを加え、コントラストを少し下げて時代の色調に寄せる後処理を行う。顔そのもの（基準顔・比率）は変えない
 - 適用済み（v170）：2019 profile-face3b-full／close2（最強）、2021 profile-uniform／同close／profile-close、2023 profile-uniform／同close／profile-close。standard-final.jpg（生成の基準マスター）は同一性維持のため対象外。元のファイルは hidden_files/texture-backup/ に保管
